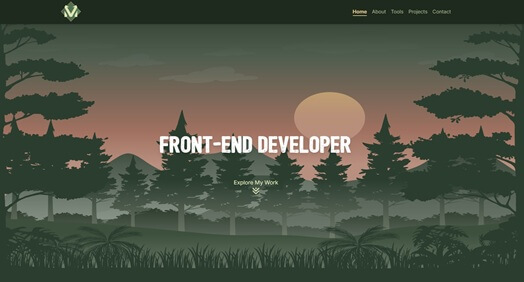
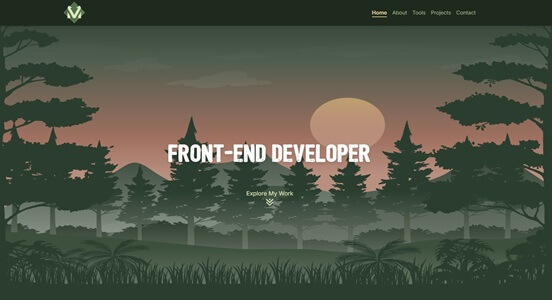
feat: add declarations.d.ts for image imports and new asset

diff --git a/src/declarations.d.ts b/src/declarations.d.ts
@@ -1,0 +1,5 @@
+declare module "*.png";
+declare module "*.jpg";
+declare module "*.jpeg";
+declare module "*.gif";
+declare module "*.webp";